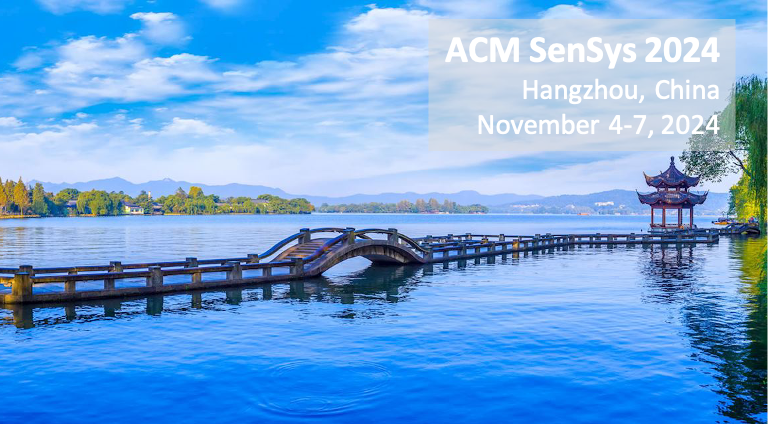
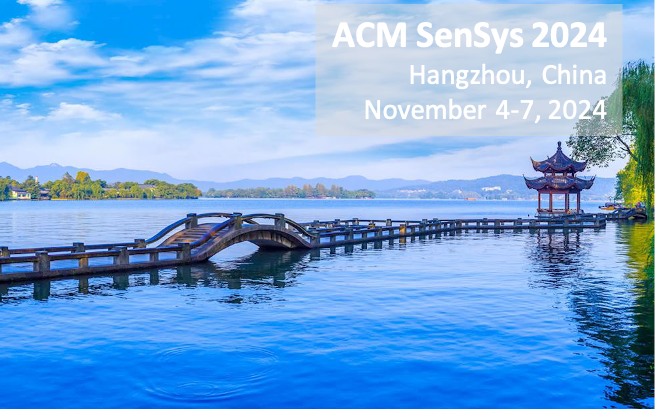
GhostStripe

diff --git a/posts/blog/index.html b/posts/blog/index.html
@@ -919,7 +919,7 @@
         <p class="card-text post-summary"><h2 id="dongfangs-work-ghoststripe-is-selected-as-sensys24-best-demo-award-congratulations">Dongfang&rsquo;s work GhostStripe is selected as SenSys'24 Best Demo Award. Congratulations!</h2>
 <hr>
 <div style="margin-top: 3rem;"></div>
-<img src="/posts/gallery/sensys24_ghostStripe.jpg"
+<img src="/posts/gallery/sensys24_GhostStripe.jpg"
     
     
     

diff --git a/posts/blog/conference/sensys-2024/index.html b/posts/blog/conference/sensys-2024/index.html
@@ -948,7 +948,7 @@
           <h2 id="dongfangs-work-ghoststripe-is-selected-as-sensys24-best-demo-award-congratulations">Dongfang&rsquo;s work GhostStripe is selected as SenSys'24 Best Demo Award. Congratulations!</h2>
 <hr>
 <div style="margin-top: 3rem;"></div>
-<img src="/posts/gallery/sensys24_ghostStripe.jpg"
+<img src="/posts/gallery/sensys24_GhostStripe.jpg"
     
     
     

diff --git a/search/index.html b/search/index.html
@@ -1042,3 +1042,15 @@ Initial setup Search depends on additional output content type of JSON in config
 
 </body>
 </html>
+1a6320.js" integrity="sha256-eUpjzPL5vK94rB2NdzwJm/lz75lT98Kf9SrH7osaYyA=" defer></script>
+
+
+
+    
+     
+
+    
+    
+
+</body>
+</html>
